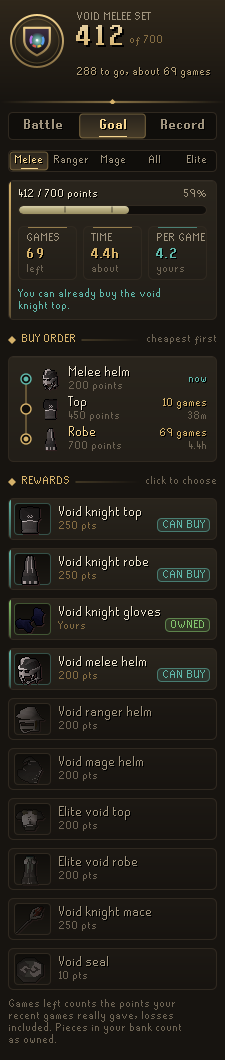
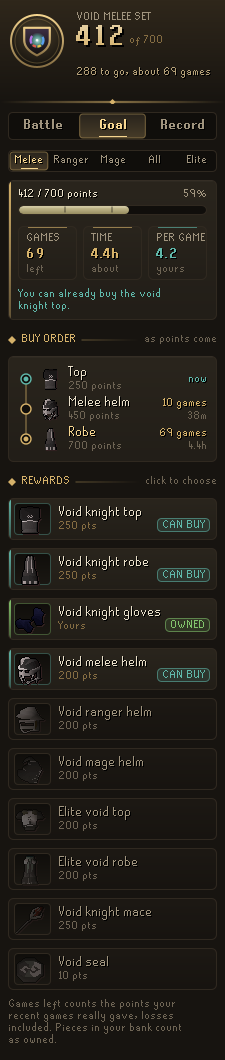
Start the buy order with the piece you can buy now, call a portal only you are hitting yours, note seals Gear Roadmap does not keep
- The buy order listed the cheapest piece as "now" while the goal card said
  you could already buy a dearer one (412 points: helm now, top in 10 games,
  under "You can already buy the void knight top"). Whenever the points held
  cover a piece, the dearest one they cover now comes next, so the two agree
  and the Void Knights hold as few points as they can.
- A portal only you were hitting read "stalled" on the map and "Nobody is
  there" in the advice, because the team's pace leaves your own hits out. It
  now reads "just you" and "Only you are wearing it down".
- Codex Gear Roadmap saves only the gear it ranks, so its saved bank never
  holds a void seal; when ownership comes from it and the goal wants a seal,
  the goal card says to open the bank once to count it.
- The hysteresis test passed with the hysteresis removed (blue stayed the
  slower portal); it now makes purple slightly slower and checks the advice
  holds, then moves once purple lags clearly. The combat gate on lander
  ratings is now tested with a lander that pays more but cannot be boarded.

Changed region(s): [[0.3111, 0.3425, 0.56, 0.4047], [0.1867, 0.3425, 0.2489, 0.4047]]

diff --git a/src/test/java/com/codex/pestcontrol/core/TeamPaceTest.java b/src/test/java/com/codex/pestcontrol/core/TeamPaceTest.java
@@ -99,14 +99,25 @@ public class TeamPaceTest
 			b.setHealth(Portal.BLUE, q);
 		}
 		assertEquals(Portal.BLUE, b.advise(null).getPortal());
-		// The team arrives at blue and wears it down; purple is now a little slower but not by much.
+		// The team arrives at blue and wears it down fast; purple is now the slower, but only by a little.
 		for (int t = 0; t < 18; t++)
 		{
 			b.tick();
-			b.setHealth(Portal.PURPLE, p -= 2);
-			b.setHealth(Portal.BLUE, q -= 3);
+			b.setHealth(Portal.PURPLE, p -= 1);
+			b.setHealth(Portal.BLUE, q -= 6);
 		}
+		int purple = b.secondsToFall(Portal.PURPLE);
+		int blue = b.secondsToFall(Portal.BLUE);
+		assertTrue(purple + " vs " + blue, purple > blue && purple - blue < 12);
 		assertEquals(Portal.BLUE, b.advise(null).getPortal());
+		// Once purple lags clearly, the advice does move.
+		for (int t = 0; t < 18; t++)
+		{
+			b.tick();
+			b.setHealth(Portal.PURPLE, p);
+			b.setHealth(Portal.BLUE, q -= 2);
+		}
+		assertEquals(Portal.PURPLE, b.advise(null).getPortal());
 	}
 
 	@Test
@@ -128,5 +139,29 @@ public class TeamPaceTest
 		b.setHealth(Portal.BLUE, 250);
 		assertEquals(-1, b.secondsToFall(Portal.BLUE));
 		assertEquals(Portal.PURPLE, b.advise(null).getPortal());
+	}
+
+	@Test
+	public void aPortalOnlyYouAreHittingIsCalledYoursNotEmpty()
+	{
+		Battle b = new Battle();
+		b.shieldDropped(Portal.PURPLE);
+		b.shieldDropped(Portal.BLUE);
+		b.addDamage(60);
+		int hp = 200;
+		for (int t = 0; t < 12; t++)
+		{
+			b.tick();
+			b.setHealth(Portal.PURPLE, 150 - 6 * t);
+			b.setHealth(Portal.BLUE, hp);
+			b.addDamage(4, Portal.BLUE);
+			hp -= 4;
+		}
+		assertTrue(b.isYoursAlone(Portal.BLUE));
+		assertTrue(!b.isYoursAlone(Portal.PURPLE));
+		// Nobody else is at blue, but you are: the advice must not say nobody is there.
+		Advice a = b.advise(new Field().crowd(Portal.BLUE, 0).crowd(Portal.PURPLE, 6));
+		assertEquals(Portal.BLUE, a.getPortal());
+		assertTrue(a.getDetail(), a.getDetail().startsWith("Only you are"));
 	}
 }

diff --git a/src/main/java/com/codex/pestcontrol/core/Outlook.java b/src/main/java/com/codex/pestcontrol/core/Outlook.java
@@ -193,26 +193,42 @@ public final class Outlook
 	}
 
 	/**
-	 * The pieces still needed in the order to buy them, cheapest first so each is yours as soon as
-	 * possible and the Void Knights never hold more points than they must. Pieces in the given set
-	 * (elite pieces still locked behind the diary) go last.
+	 * The pieces still needed in the order to buy them. Whenever the points held cover a piece, the
+	 * dearest one they cover comes next (the same piece the outlook names as buyable now), so the
+	 * Void Knights hold as few points as they can; otherwise the cheapest, as it is yours soonest.
+	 * Pieces in the given set (elite pieces still locked behind the diary) go last.
 	 */
 	public List<Milestone> milestones(Set<Reward> last)
 	{
-		List<Reward> order = new ArrayList<>(needed);
-		order.sort((a, b) ->
+		List<Reward> open = new ArrayList<>();
+		List<Reward> later = new ArrayList<>();
+		for (Reward r : needed)
 		{
-			boolean la = last != null && last.contains(a);
-			boolean lb = last != null && last.contains(b);
-			if (la != lb)
+			(last != null && last.contains(r) ? later : open).add(r);
+		}
+		// Stable sorts keep the reward order between pieces of the same cost.
+		open.sort((a, b) -> Integer.compare(a.getCost(), b.getCost()));
+		later.sort((a, b) -> Integer.compare(a.getCost(), b.getCost()));
+		List<Reward> order = new ArrayList<>();
+		int held = Math.max(0, points);
+		int spent = 0;
+		while (!open.isEmpty())
+		{
+			Reward next = open.get(0);
+			for (Reward r : open)
 			{
-				return la ? 1 : -1;
+				if (r.getCost() <= held - spent && r.getCost() > next.getCost())
+				{
+					next = r;
+				}
 			}
-			return Integer.compare(a.getCost(), b.getCost());
-		});
+			open.remove(next);
+			order.add(next);
+			spent += next.getCost();
+		}
+		order.addAll(later);
 		List<Milestone> out = new ArrayList<>();
 		int total = 0;
-		int held = Math.max(0, points);
 		for (Reward r : order)
 		{
 			total += r.getCost();

diff --git a/src/test/java/com/codex/pestcontrol/core/PlannerTest.java b/src/test/java/com/codex/pestcontrol/core/PlannerTest.java
@@ -27,6 +27,22 @@ public class PlannerTest
 	}
 
 	@Test
+	public void thePieceTheOutlookSaysYouCanBuyNowIsFirstInTheBuyOrder()
+	{
+		// 412 points toward the melee set with the gloves owned: the top (250) and the helm (200)
+		// are each affordable, not both. The outlook names the top, so the buy order must start there.
+		Outlook o = Outlook.of(EnumSet.copyOf(Goal.MELEE.getRewards()), EnumSet.of(Reward.GLOVES), 412, 4.2, 4, true);
+		List<Outlook.Milestone> m = o.milestones(null);
+		assertEquals(o.getNextBuy(), m.get(0).getReward());
+		assertEquals(Reward.TOP, m.get(0).getReward());
+		assertEquals(0, m.get(0).getGames());
+		// Then the helm: 450 in all, 38 short at 4.2 a game.
+		assertEquals(Reward.MELEE_HELM, m.get(1).getReward());
+		assertEquals(10, m.get(1).getGames());
+		assertEquals(Reward.ROBE, m.get(2).getReward());
+	}
+
+	@Test
 	public void piecesAlreadyAffordableAreNow()
 	{
 		Outlook o = Outlook.of(EnumSet.of(Reward.SEAL, Reward.GLOVES), EnumSet.noneOf(Reward.class), 200, 5, 5, true);
@@ -66,6 +82,24 @@ public class PlannerTest
 		// A level 80 cannot board the veteran lander, and two games are not enough to rate one.
 		assertEquals(Boat.INTERMEDIATE, Landers.best(lines, 80).getBoat());
 		assertNull(Landers.best(Landers.of(games.subList(4, 6)), 110));
+	}
+
+	@Test
+	public void aLanderYouCannotBoardIsNeverTheBest()
+	{
+		List<GameRecord> games = new ArrayList<>();
+		// The veteran lander pays far better here, but needs combat 100.
+		for (int i = 0; i < 3; i++)
+		{
+			games.add(game(i * 5, Boat.VETERAN, GameRecord.Result.WON, 5, 120));
+		}
+		for (int i = 0; i < 3; i++)
+		{
+			games.add(game(100 + i * 8, Boat.INTERMEDIATE, GameRecord.Result.WON, 4, 140));
+		}
+		List<Landers.Line> lines = Landers.of(games);
+		assertEquals(Boat.VETERAN, Landers.best(lines, 110).getBoat());
+		assertEquals(Boat.INTERMEDIATE, Landers.best(lines, 80).getBoat());
 	}
 
 	@Test

diff --git a/src/main/java/com/codex/pestcontrol/ui/PilotPanel.java b/src/main/java/com/codex/pestcontrol/ui/PilotPanel.java
@@ -437,6 +437,11 @@ public class PilotPanel extends PluginPanel
 		}
 		foot.append(view.ownedFromRoadmap ? ". Pieces in your bank, as Codex Gear Roadmap last saw it, count as owned."
 			: view.ownedKnown ? ". Pieces in your bank count as owned." : ". Open your bank so pieces you own are not counted.");
+		if (view.ownedFromRoadmap && view.goal.contains(Reward.SEAL) && !view.owned.contains(Reward.SEAL))
+		{
+			// Codex Gear Roadmap saves only the gear it ranks, and a void seal is not gear to it.
+			foot.append(" It does not keep void seals, so open your bank once to count yours.");
+		}
 		stack.add(Ui.wrapped(foot.toString(), Theme.small(), Theme.TEXT_FAINT, WIDTH - 16));
 		replace(goal, stack);
 	}
@@ -460,7 +465,7 @@ public class PilotPanel extends PluginPanel
 			}
 		}
 		List<Outlook.Milestone> steps = o.milestones(locked);
-		stack.add(new SectionHeader("Buy order", "cheapest first"));
+		stack.add(new SectionHeader("Buy order", "as points come"));
 		Card card = new Card(new BorderLayout());
 		StackPanel rows = new StackPanel(0, 0);
 		for (int i = 0; i < steps.size(); i++)

diff --git a/src/main/java/com/codex/pestcontrol/core/Battle.java b/src/main/java/com/codex/pestcontrol/core/Battle.java
@@ -197,6 +197,18 @@ public class Battle
 		return (int) Math.ceil(last[1] / perTick * 0.6);
 	}
 
+	/**
+	 * Whether you are the only one wearing the open portal down: your hits have landed on it lately
+	 * but, leaving them out, its health is not falling. Its pace then reads as stalled, which is the
+	 * team's pace, not yours.
+	 */
+	public boolean isYoursAlone(Portal portal)
+	{
+		List<int[]> hits = ownHits.get(portal.ordinal());
+		trim(hits);
+		return !hits.isEmpty() && secondsToFall(portal) == STALLED;
+	}
+
 	public void tick()
 	{
 		ticks++;
@@ -458,7 +470,14 @@ public class Battle
 		if (eta == STALLED)
 		{
 			Integer crowd = f.crowdAt(p);
-			lead = crowd != null && crowd == 0 ? "Nobody is there: it holds the game up" : "The team is not wearing it down: it holds the game up";
+			if (isYoursAlone(p))
+			{
+				lead = "Only you are wearing it down: it holds the game up";
+			}
+			else
+			{
+				lead = crowd != null && crowd == 0 ? "Nobody is there: it holds the game up" : "The team is not wearing it down: it holds the game up";
+			}
 		}
 		else
 		{

diff --git a/src/main/java/com/codex/pestcontrol/ui/View.java b/src/main/java/com/codex/pestcontrol/ui/View.java
@@ -36,6 +36,8 @@ public final class View
 		final int crowd;
 		/** Seconds until it falls at the team's pace, Battle.STALLED when not being worn down, -1 when not known. */
 		final int eta;
+		/** Whether only your hits are wearing it down, so its stalled team pace is no fault of yours. */
+		final boolean yoursAlone;
 
 		/** @param crowd other players at it, or -1 when not seen */
 		public PortalState(Portal portal, boolean shielded, boolean fallen, int health, int crowd)
@@ -45,6 +47,12 @@ public final class View
 
 		public PortalState(Portal portal, boolean shielded, boolean fallen, int health, int crowd, int eta)
 		{
+			this(portal, shielded, fallen, health, crowd, eta, false);
+		}
+
+		public PortalState(Portal portal, boolean shielded, boolean fallen, int health, int crowd, int eta, boolean yoursAlone)
+		{
+			this.yoursAlone = yoursAlone;
 			this.eta = eta;
 			this.portal = portal;
 			this.shielded = shielded;

diff --git a/src/main/java/com/codex/pestcontrol/ui/OutpostMap.java b/src/main/java/com/codex/pestcontrol/ui/OutpostMap.java
@@ -184,10 +184,11 @@ public class OutpostMap extends JComponent
 			if (!s.fallen && s.eta >= 0)
 			{
 				// How long the rest of the team will take to bring it down, so the slow portal stands out.
+				// A portal only you are hitting reads as stalled for the team; say it is yours instead.
 				boolean stalled = s.eta == com.codex.pestcontrol.core.Battle.STALLED;
-				String pace = stalled ? "stalled" : "~" + s.eta + "s";
+				String pace = stalled ? s.yoursAlone ? "just you" : "stalled" : "~" + s.eta + "s";
 				Ui.shadowed(g, pace, Math.round(c.x - fm.stringWidth(pace) / 2f), Math.round(c.y + R + 5 + fm.getAscent() + fm.getHeight() - 2),
-					stalled ? Theme.EMBER : Theme.TEXT_FAINT);
+					stalled ? s.yoursAlone ? Theme.GOLD : Theme.EMBER : Theme.TEXT_FAINT);
 			}
 
 			if (s.crowd > 0 && !s.fallen)

diff --git a/src/main/java/com/codex/pestcontrol/CodexPestControlPlugin.java b/src/main/java/com/codex/pestcontrol/CodexPestControlPlugin.java
@@ -872,7 +872,7 @@ public class CodexPestControlPlugin extends Plugin
 			{
 				Integer crowd = field.crowdAt(p);
 				states.add(new View.PortalState(p, battle.isShielded(p), battle.isFallen(p), battle.getHealth(p), crowd == null ? -1 : crowd,
-					battle.secondsToFall(p)));
+					battle.secondsToFall(p), battle.isYoursAlone(p)));
 			}
 			fight = new View.Fight(states, advice, battle.getKnightHealth(), battle.getDamage(), battle.expectedOrder(),
 				battle.getPossible().size(), (int) Math.round(battle.getTicks() * 0.6), activity(), battle.secondsToNextDrop(logbook.getClock()));

diff --git a/README.md b/README.md
@@ -17,14 +17,14 @@ Guidance only: the Pilot never clicks, moves or attacks for you.
 - **Work next.** One line that says what to do now. When a shield is down: attack that portal, the weakest one if several are open unless another is a good deal nearer, and kill the spinners first when they are healing it (from range if you fight with a bow or staff) or clear the brawlers in a melee fighter's way. When no shield is down but the order is known: head for the portal whose shield drops next, and which gate to leave by. Before that: hold by the knight, with the portals that could drop next. When the Void Knight is low and nothing is open: defend him.
 - **The island, charted.** The Battle tab draws the outpost with its west, east and south gates and the four portals where they stand. Open portals glow, shielded ones sit behind a pale ring, fallen ones go grey, each shows its health, and they are numbered in the order their shields drop. The one to work wears a gold halo, with the way there traced from the knight through the right gate.
 - **Reading the team.** Players are counted at every portal. Until you have your points, the Pilot sends you to the open portal with far fewer players, where your hits land instead of being shared out among a crowd.
-- **The portal holding the game up.** Each open portal's health is watched over ten seconds and, with your own hits left out, turned into how long the rest of the team will take to bring it down. Once your 50 damage is in, the game ends only when the last portal falls, so the Pilot sends you to the open portal falling last, or not at all because nobody is there. It holds that choice while the gap is small, so it does not flicker between two portals. The chart shows each portal's pace, or "stalled".
+- **The portal holding the game up.** Each open portal's health is watched over ten seconds and, with your own hits left out, turned into how long the rest of the team will take to bring it down. Once your 50 damage is in, the game ends only when the last portal falls, so the Pilot sends you to the open portal falling last, or not at all because nobody is there. It holds that choice while the gap is small, so it does not flicker between two portals. The chart shows each portal's pace, "stalled", or "just you" when only your hits are bringing it down.
 - **Shield countdown.** The Pilot learns from your own games how long each shield takes to drop and counts down to the next one, so you are standing at the portal when it opens.
 - **Activity.** The game's own activity bar is read alongside your damage, and while you wait for a shield with a low bar the Pilot suggests repairing a barricade.
 - **Reading the rotation.** Shields always drop in one of six orders. After the first one or two drops the Pilot knows the rest of the game and sends you ahead of the crowd.
 - **Marked in the world.** The portal to work gets an outline in its colour, a gilt ring on its tile, a word over it and a ring on the minimap. While the next drop is still open, every candidate gets a faint outline.
 - **Damage for points.** A game only gives points once you have dealt 50 damage. The plaque and the panel count yours, so you know when you have done enough.
 - **Goal.** Pick the void melee, ranger or mage set, all three helms, elite void, or any pieces you like (the mace and seal too). The Pilot counts your points against what is left, skipping pieces already in your bank or inventory (or in the bank [Codex Gear Roadmap](https://github.com/Nubles/OSRS-Codex-Gear-Roadmap) last saw, until you open yours), and says how many games and how long that is. Points per game and minutes per game are measured from your own games, losses included, once three are in. It flags the combat levels void needs and the hard Western Provinces diary elite needs, and says in the chat box when your points first cover a piece.
-- **Buy order.** The pieces still to get, cheapest first with diary-locked elite pieces last, each with the games and time until you can buy it.
+- **Buy order.** The pieces still to get, in the order to buy them: the dearest piece your points already cover first (the one the Pilot says you can buy now), then the cheapest, with diary-locked elite pieces last, each with the games and time until you can buy it.
 - **Landers.** Each lander you have played, rated from your own games: how often you win, the points a game with losses counted, and the points an hour with the wait in the lander counted. When another lander you can board pays clearly better, the Goal page says so.
 - **Your damage.** A bar for each recent game against the 50 damage a game needs for points, so games that gave nothing stand out.
 - **Record.** Games played, how many were won, points earned, points per hour in games and your recent games with their damage, length and points.
